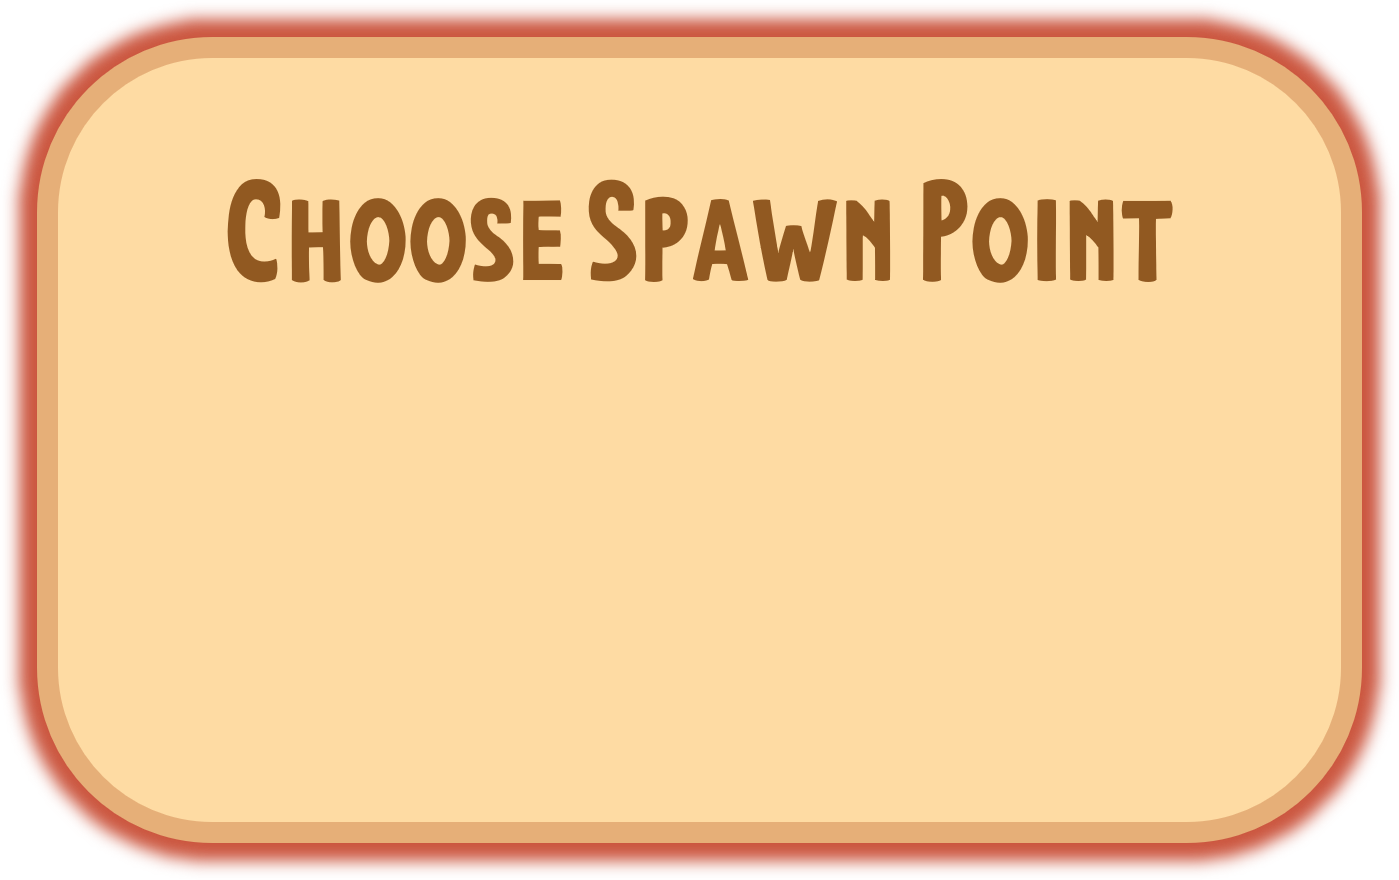
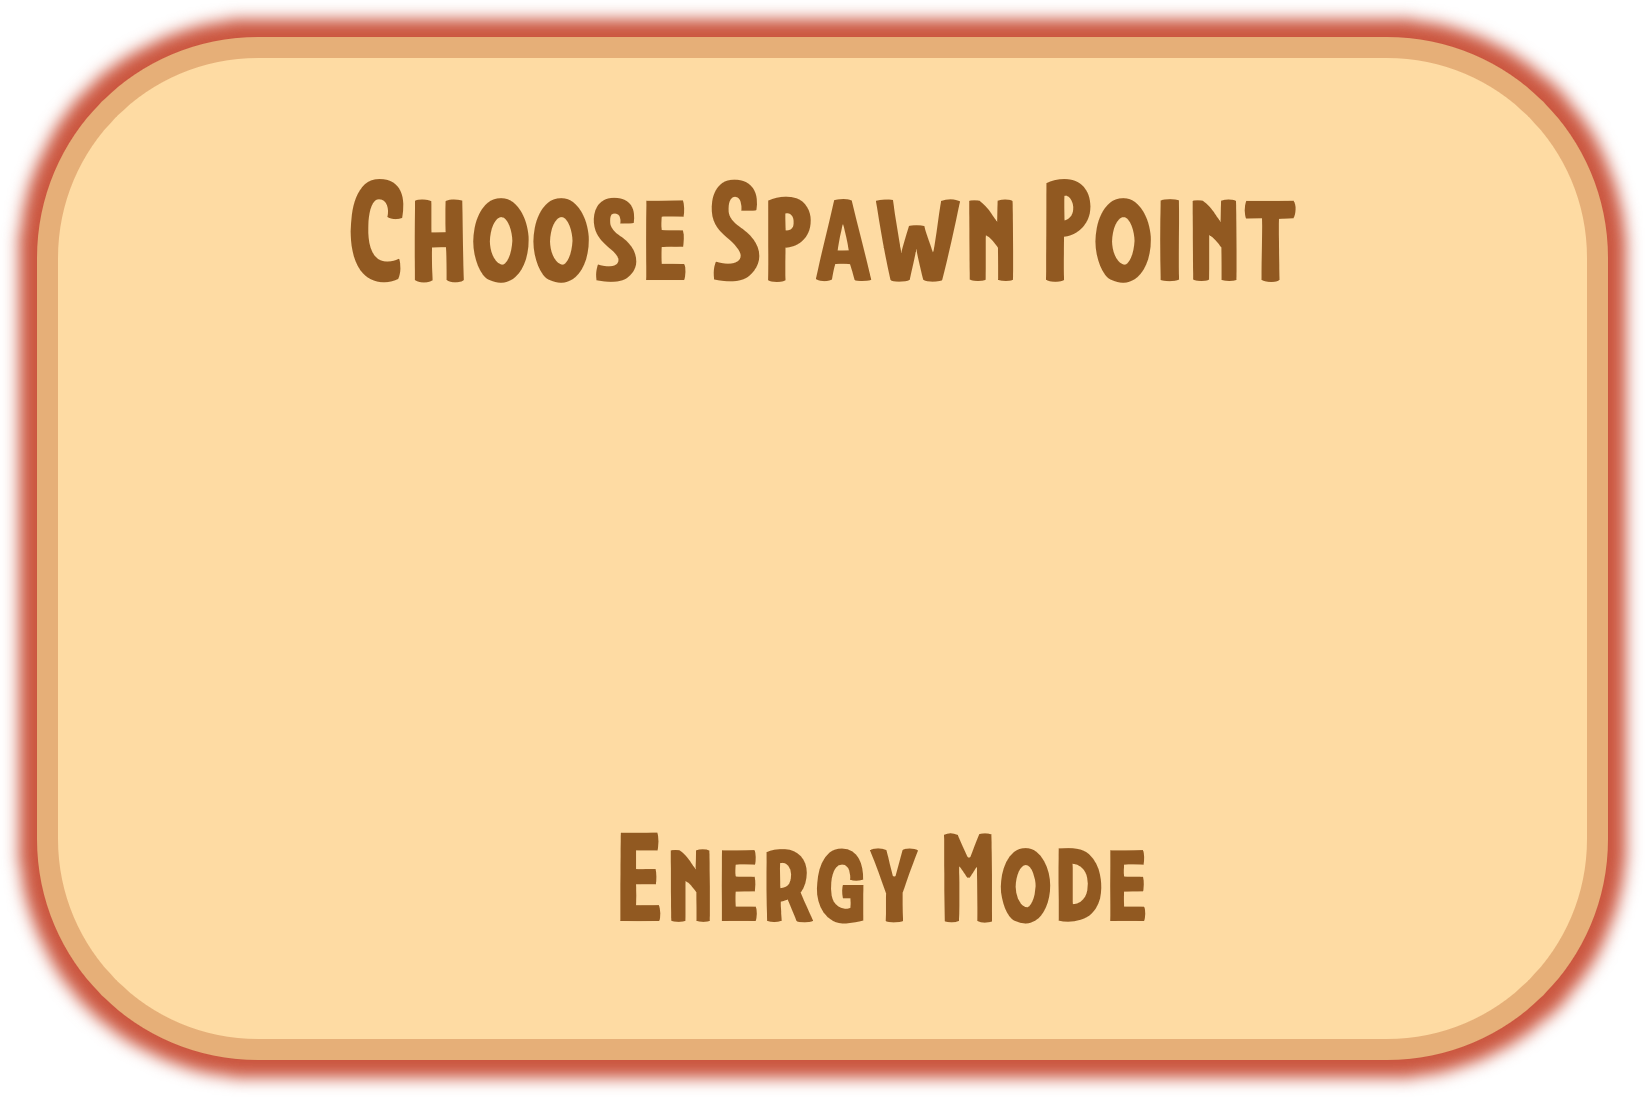
fix: choose new game mode

Changed region(s): [[0.0, 0.0, 1.0, 1.0], [0.1537, 0.1534, 0.8606, 0.3375], [0.3688, 0.7364, 0.7069, 0.8591]]

diff --git a/visualize.py b/visualize.py
@@ -34,6 +34,7 @@ class GameScreen:
         self.leaderboard_state = 'easy'
         self.new_game_state = 'choose difficulty'
         self.new_game_mode_confirm = ''
+        self.energy_mode = False
         self.load_game_state = 'easy'
         self.music = True
         self.sound = True
@@ -96,6 +97,8 @@ class GameScreen:
         button_hard_img = create_img(self.image_source, 'button_hard')
         button_random_img = create_img(self.image_source, 'button_random')
         button_manual_img = create_img(self.image_source, 'button_manual')
+        button_uncheck_img = create_img(self.image_source, 'button_uncheck')
+        button_check_img = create_img(self.image_source, 'button_check')
         background_new_game_img = create_img(self.image_source, 'background_new_game')
         box_login_confirm_img = create_img(self.image_source, 'box_login_confirm')
         choose_difficulty_img = create_img(self.image_source, 'choose_difficulty')
@@ -203,9 +206,11 @@ class GameScreen:
         self.button_easy = button.Button(SCREEN_WIDTH * 0.24, SCREEN_HEIGHT * 0.35, button_easy_img, self.click_sound_source, 0.3, 0.31)
         self.button_medium = button.Button(SCREEN_WIDTH * 0.24, SCREEN_HEIGHT * 0.55, button_medium_img, self.click_sound_source, 0.3, 0.31)
         self.button_hard = button.Button(SCREEN_WIDTH * 0.24, SCREEN_HEIGHT * 0.75, button_hard_img, self.click_sound_source, 0.3, 0.31)
-        self.button_random = button.Button(box_choose_spawn_point_x_coord - box_choose_spawn_point_width * 0.2, box_choose_spawn_point_y_coord + box_choose_spawn_point_height * 0.2, button_random_img, self.click_sound_source, 0.3, 0.31)
-        self.button_manual = button.Button(box_choose_spawn_point_x_coord + box_choose_spawn_point_width * 0.2, box_choose_spawn_point_y_coord + box_choose_spawn_point_height * 0.2, button_manual_img, self.click_sound_source, 0.3, 0.31)
-
+        self.button_random = button.Button(box_choose_spawn_point_x_coord - box_choose_spawn_point_width * 0.2, box_choose_spawn_point_y_coord, button_random_img, self.click_sound_source, 0.3, 0.31)
+        self.button_manual = button.Button(box_choose_spawn_point_x_coord + box_choose_spawn_point_width * 0.2, box_choose_spawn_point_y_coord, button_manual_img, self.click_sound_source, 0.3, 0.31)
+        self.button_uncheck = button.Button(box_choose_spawn_point_x_coord - box_choose_spawn_point_width * 0.2, box_choose_spawn_point_y_coord + box_choose_spawn_point_height * 0.3, button_uncheck_img, self.click_sound_source, 0.3, 0.3)
+        self.button_check = button.Button(box_choose_spawn_point_x_coord - box_choose_spawn_point_width * 0.2, box_choose_spawn_point_y_coord + box_choose_spawn_point_height * 0.3, button_check_img, self.click_sound_source, 0.3, 0.3)
+        
         """ LOAD GAME """
                 # create graphic
         self.background_load_game = graphic.Graphic(HALF_SCREEN_WIDTH, HALF_SCREEN_HEIGHT, background_load_game_img, 1.5)
@@ -400,19 +405,37 @@ class GameScreen:
         else:
             if self.new_game_state == 'choose difficulty':
                 self.choose_difficulty.draw(self.screen)
-                if self.button_easy.image_rect.collidepoint(pos):
+                if self.new_game_mode_confirm == '':
+                    if self.button_easy.image_rect.collidepoint(pos):
+                        self.mood_easy.draw(self.screen)
+                    # if self.button_medium.image_rect.collidepoint(pos):
+                    #     self.mood_medium.draw(self.screen)
+                    if self.button_hard.image_rect.collidepoint(pos):
+                        self.mood_hard.draw(self.screen)
+                        
+                if self.button_easy.draw(self.screen, pos, event, self.sound):
+                    self.new_game_mode_confirm = 'choose mode'
+                    self.difficulty = DIFFICULTY.EASY
+                elif self.button_medium.draw(self.screen, pos, event, self.sound):
+                    self.new_game_mode_confirm = 'choose mode'
+                    self.difficulty = DIFFICULTY.MEDIUM
+                elif self.button_hard.draw(self.screen, pos, event, self.sound):
+                    self.new_game_mode_confirm = 'choose mode'
+                    self.difficulty = DIFFICULTY.HARD
+                    
+                if self.difficulty == DIFFICULTY.EASY:
                     self.mood_easy.draw(self.screen)
-                # if self.button_medium.image_rect.collidepoint(pos):
+                # if self.difficulty == DIFFICULTY.MEDIUM:
                 #     self.mood_medium.draw(self.screen)
-                if self.button_hard.image_rect.collidepoint(pos):
+                if self.difficulty == DIFFICULTY.HARD:
                     self.mood_hard.draw(self.screen)
                     
-                if self.button_easy.draw(self.screen, pos, event, self.sound) or self.button_medium.draw(self.screen, pos, event, self.sound) or self.button_hard.draw(self.screen, pos, event, self.sound):
-                    self.new_game_mode_confirm = 'choose mode'
+                    
                 if self.new_game_mode_confirm == 'choose mode':
                     self.box_choose_spawn_point.draw(self.screen)
                     if self.button_random.draw(self.screen, pos, event, self.sound):
                         self.new_game_mode_confirm = 'random'
+                        ''' CHOOOSE SPAWN POINT FUNC'''
                         self.game_state = 'ingame'
                         if self.difficulty == DIFFICULTY.EASY:
                             self.music_player.play_music('easy mode')
@@ -420,6 +443,7 @@ class GameScreen:
                             self.music_player.play_music('medium mode')
                         if self.difficulty == DIFFICULTY.HARD:
                             self.music_player.play_music('hard mode')
+                            
                     if self.button_manual.draw(self.screen, pos, event, self.sound):
                         self.new_game_mode_confirm = 'manual'
                         ''' CHOOOSE SPAWN POINT FUNC'''
@@ -430,6 +454,14 @@ class GameScreen:
                             self.music_player.play_music('medium mode')
                         if self.difficulty == DIFFICULTY.HARD:
                             self.music_player.play_music('hard mode')
+                            
+                    if self.energy_mode == False:
+                        if self.button_uncheck.draw(self.screen, pos, event, self.sound):
+                            self.energy_mode = True
+                    else:
+                        if self.button_check.draw(self.screen, pos, event, self.sound):
+                            self.energy_mode = False
+                            
                 if self.button_back.draw(self.screen, pos, event, self.sound):
                     self.game_state = 'main menu'
                     self.skip_login = False
